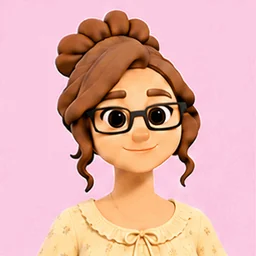
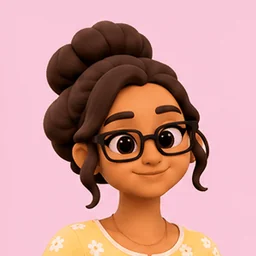
Kiru colour redo: home/laugh, home2 idle/wave in kiru-v2 colours
Claude-Session: https://claude.ai/code/session_01M9MLSzTgGmRpDx4quWz9qx

diff --git a/design/gen/status.md b/design/gen/status.md
@@ -128,7 +128,7 @@ Generated in ChatGPT, checked frame by frame, converted to 256x256 animated WebP
 | kiru/home/phone | done | 1 | colour redo Nov 19 (sprite sheet, kiru-v2 colours): ONE phone in the same hand in every frame; thumb scroll and chuckle |
 | kiru/home/cook | done | 1 | colour redo Nov 19 (sprite sheet, kiru-v2 colours): ONE wooden spoon in the same hand at the bottom edge, pot below the frame, faint steam on the right |
 | kiru/home/sleep | done | 1 | colour redo Nov 19 (sprite sheet, kiru-v2 colours): asleep on a pillow with glasses on; closer framing than the standing poses (head partly at the left edge); round bubbles frames 4-11 |
-| kiru/home/laugh | done | 0 | Kiru v2 look; head tilts back with the laugh (up to 12 px); 4 px edge trim for a bottom strip |
+| kiru/home/laugh | done | 1 | colour redo Nov 19 (sprite sheet, kiru-v2 colours): laugh: leans in and tilts back (figure up to 12 px higher and slightly larger in frames 6-8, sheet as drawn) |
 | kiru/work/idle | done | 1 | colour redo Nov 19 (sprite sheet, kiru-v2 colours): sprite-sheet render; aligned to frame 0; blink frames 5-9 |
 | kiru/work/wave | done | 1 | colour redo Nov 19 (sprite sheet, kiru-v2 colours): hand waves at the left edge and is partly cut there in frames 5-9; one blink |
 | kiru/work/type | done | 1 | colour redo Nov 19 (sprite sheet, kiru-v2 colours): ONE laptop lid at the bottom right, hands below the frame; looks down at the screen then up with a smile; head bob up to 5 px |
@@ -149,8 +149,8 @@ Generated in ChatGPT, checked frame by frame, converted to 256x256 animated WebP
 | kiru/out4/idle | done | 0 | Kiru v2 look; frames 5-8 rose up to 8 px during the blink; re-aligned and cropped |
 | kiru/out4/wave | done | 0 | Kiru v2 look |
 | kiru/out4/dance | done | 0 | Kiru v2 look; fists pop in at frame 1 and out at frame 15 |
-| kiru/home2/idle | done | 0 | Kiru v2 look; breath rise up to 7 px |
-| kiru/home2/wave | done | 0 | Kiru v2 look |
+| kiru/home2/idle | done | 1 | colour redo Nov 19 (sprite sheet, kiru-v2 colours): pale yellow nighty; frames 9-11 sat 5-8 px higher on the sheet, aligned to frame 0; blink frames 3-6 |
+| kiru/home2/wave | done | 1 | colour redo Nov 19 (sprite sheet, kiru-v2 colours): same hand waves on the left; small white motion lines by the hand in frames 4-6; blink frames 9-10 |
 | kiru/home2/tv | done | 0 | Kiru v2 look; ONE remote, lowered to the bottom edge in frames 7-10 |
 | kiru/home2/phone | done | 0 | Kiru v2 look; ONE phone, same hand; 4 px edge trim for a bottom strip |
 | kiru/home2/sleep | done | 0 | Kiru v2 look; sleeps with her glasses on |
@@ -194,16 +194,16 @@ Reference measurements (tools: /tmp/tools/colour.py; median Lab over sampled fra
 | kiru/gym/workout | pending |  |  | old: skin dE 13.8 hair dE 24.1 |
 | kiru/home/cook | done | 1.3 | 1.6 | ONE wooden spoon in the same hand at the bottom edge, pot below the frame, faint steam on the right |
 | kiru/home/idle | done | 6.2 | 3.6 | pink floral nighty; blink frames 4-9; stable framing |
-| kiru/home/laugh | pending |  |  | old: skin dE 10.2 hair dE 9.2 |
+| kiru/home/laugh | done | 3.1 | 2.0 | laugh: leans in and tilts back (figure up to 12 px higher and slightly larger in frames 6-8, sheet as drawn) |
 | kiru/home/phone | done | 2.9 | 0.9 | ONE phone in the same hand in every frame; thumb scroll and chuckle |
 | kiru/home/sleep | done | 1.8 | 3.2 | asleep on a pillow with glasses on; closer framing than the standing poses (head partly at the left edge); round bubbles frames 4-11 |
 | kiru/home/tv | done | 3.2 | 3.6 | sofa behind; ONE remote in the same hand (frames 2-7), lowered out of frame after; chuckle with eyes closed frames 7-9 |
 | kiru/home/wave | done | 7.3 | 5.2 | same hand waves at the left edge (partly cut in frames 6-9); one blink |
-| kiru/home2/idle | pending |  |  | old: skin dE 15.8 hair dE 22.1 |
+| kiru/home2/idle | done | 1.0 | 0.7 | pale yellow nighty; frames 9-11 sat 5-8 px higher on the sheet, aligned to frame 0; blink frames 3-6 |
 | kiru/home2/phone | pending |  |  | old: skin dE 15.5 hair dE 25.6 |
 | kiru/home2/sleep | pending |  |  | old: skin dE 12.8 hair dE 22.8 |
 | kiru/home2/tv | pending |  |  | old: skin dE 14.8 hair dE 23.1 |
-| kiru/home2/wave | pending |  |  | old: skin dE 15.9 hair dE 22.4 |
+| kiru/home2/wave | done | 1.7 | 1.8 | same hand waves on the left; small white motion lines by the hand in frames 4-6; blink frames 9-10 |
 | kiru/out2/idle | pending |  |  | old: skin dE 14.9 hair dE 17.7 |
 | kiru/out2/walk | pending |  |  | old: skin dE 15.5 hair dE 17.0 |
 | kiru/out2/wave | pending |  |  | old: skin dE 15.4 hair dE 22.0 |
